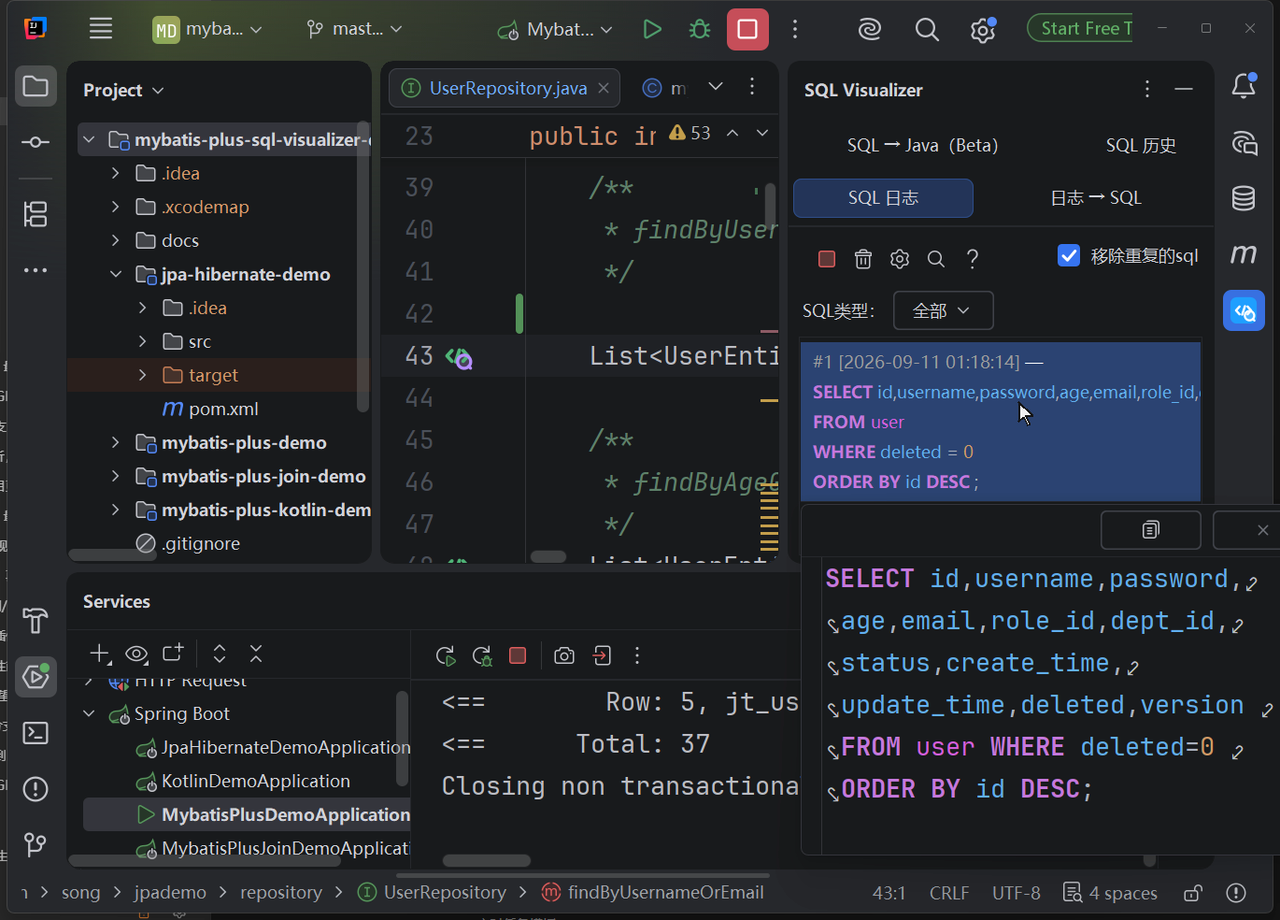
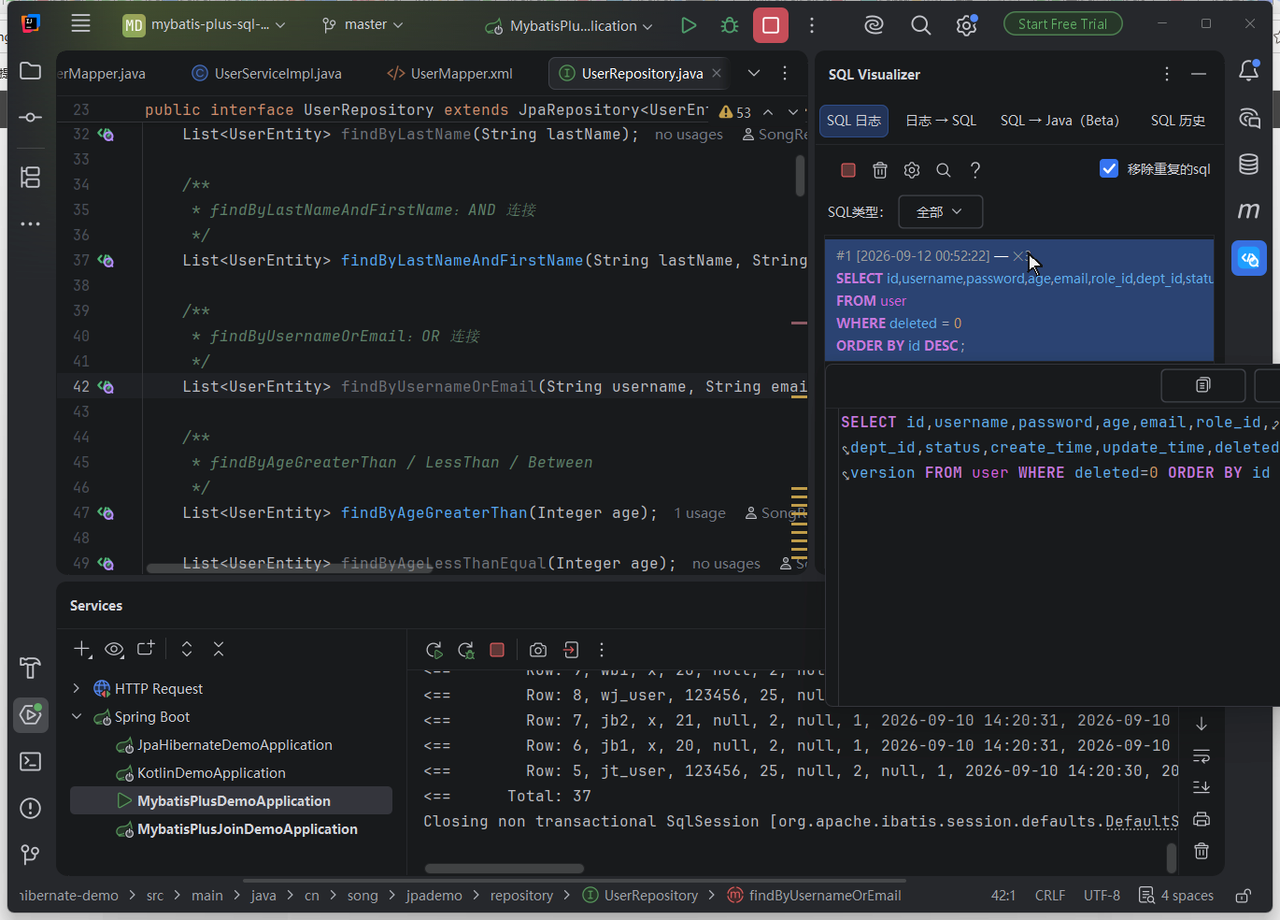
feat(demo): 修订九构图全量重录落地——7/8 重录+T6 保留+构建实测通过（本地待确认部署）
- 7 张 GIF+poster 按新构图重录替换：1370×984 窗口@120% 缩放+编辑器 13pt+目录树关闭+Islands Dark
- 逐张：annotation 0.9MB/wrapper 1.6MB(1440宽)/batch 1.0MB/xml 1.0MB/completion 0.3MB/jpa 2.6MB/sql-log 0.8MB，均 15fps
- T6 sql-to-java 输入编辑器回归未修，继续保留旧成品
- 实施状态更新：逐张规格/接缝/管线修复（assemble 残留帧等）与站点实测结论
- npm run build 通过；puppeteer 实测 7 处投放位动图播放与 poster 兜底结构正常

diff --git a/docs/开发计划/20260907-1138-文档站演示图GIF化补齐与替换-开发计划.md b/docs/开发计划/20260907-1138-文档站演示图GIF化补齐与替换-开发计划.md
@@ -5,7 +5,7 @@ search: false
 # 文档站演示图 GIF 化补齐与替换开发计划
 
 - 立项时间：2026-09-07 11:38（2026-09-11 修订九：用户判定 120% 缩放下字号仍偏大，全部录制作废按新构图重录——**构图基线：窗口 1370×984 @ (277,25) 浮动窗（全屏方案已否决）、IDE UI 缩放 120%（ideScale=1.2）、编辑器字体 13pt（对齐 JetBrains 官方视频密度）、项目目录树关闭（**录制前必查项，见 2.4**）、录制区域=窗口外框 (277,25,1370,984)**；录制环境用独立工作区 F:\code\Java\Gitee\SongRenShuo\mpsv-gif-fresh（detached @ c2d37bf，已配 2026.2.1+jcef+toolchain24+独立沙盒 MPSV-GifFresh，config 已带新构图设置，record/ 脚本为最新版），重执行时直接在该工作区 runIde【**修订十作废**：该 worktree 已移除，改用插件仓库 dev 的 `-PgifRecord` 开关，见 2.3】；旧 150% 构图的 6 张成品作废，T3 已有新构图初版。2026-09-07 修订一：录制工具改用 Recordly；新增「每个 GIF 必须配同名静态兜底图」硬性要求与 GifPlayer 兜底改造任务。修订二：新增清晰度基准——按站点实际显示宽度定录制/导出规格，IDEA UI 缩放 150% + 编辑器 18pt + 紧致构图三件套。修订三：吸收 JetBrains 官方 whatsnew 演示视频调研结论，见 2.7——构图/节奏印证三件套方向，wrapper-preview 因首页共用升 1440 导出。修订四：录制与截图环境锁定插件仓库 2026.2 runIde 沙盒（切换步骤见插件仓库《03-开发与测试指南》2.1），主题改为官网演示示例同款（沙盒默认主题），弃用「亮色主题」表述。修订五：官方演示风格由 2.7 调研结论升格为显式风格基准——2.4 加基准引言，验收标准第 2 条挂钩 2.7，实施与验收均以「对齐官方风格」为准绳。2026-09-09 修订六：①主题基准修正——IDEA 官方演示同款为暗色主题，明确录制时手动选用 IDE 暗色主题，此前按浅色理解录制的 4 张（annotation/jpa/batch/code-completion）作废待重录；②录制范围硬性限定为 IDE 窗口画面本身，严禁带入屏幕底部 Windows 任务栏与任何桌面元素；③沙盒激活尝试主 IDE 激活信息复制方案（idea.key 复制/Activation code 粘贴均实测无效，见 2.3），沙盒以免费评估/非商业授权模式运行即可满足录制。2026-09-09 修订七：④首轮成品 10fps 全部卡顿，根因两轮丢帧叠加（Recordly 3× 提速丢 2/3 + ffmpeg fps=10 再抽）+ 光标平滑未生效——修订为 GIF 帧率固定 15fps、提速降到 1.5~2×、关闭 auto-zoom 改固定构图、录制时操作排紧凑尽量单段不拼接，体积放开到 4~6MB 优先保证流畅。2026-09-10 修订八：首轮成品录制方式与节奏正确，但存在「弹窗 UI 重叠」与「SQL 高亮标红」两类画面问题（见实施状态），决定全部重新录制，录制前先修复沙盒样式缺陷与数据源配置；同时新增 T9c 弱网「先 poster → GIF 淡入覆盖」加载体验优化）。2026-09-11 修订十：**录制环境切换方式改为插件仓库内置开关**——插件仓库 dev 分支已把录制四项配置（262 平台 / JCEF / `jvmToolchain(24)` / 独立沙盒 `MPSV-GifFresh`）收敛为 Gradle 属性开关（插件仓库提交 f73df8c，另含误开闸门），录制改为 `./gradlew runIde -PgifRecord=true`，**不再需要临时改 `build.gradle.kts`、也不再需要录完 `git checkout` 还原**；原 `mpsv-gif-fresh` 独立工作区方案随之作废（该 worktree 已移除），改用含该开关的 dev worktree 即可。**注意该开关目前只在插件仓库本地 dev 分支，尚未推送到 origin/dev，master 与 r2 分支均无**——详见 2.3 注意 2。§2.3 / T0b / §五 已同步更新
-- 实施状态：**2026-09-11 修订九：全部 8 张按新构图作废重录**（用户验收判定字号仍偏大，需对齐 JetBrains 官方视频密度；修订八首轮 7 张旧构图成品作废，T3 已有新构图初版可作基线；T6 仍被输入编辑器回归阻塞，修复后补录）。修订八本轮已完成的部分：T9a/T9c GifPlayer poster 常驻+0.6s 淡入、T9b 首页两组件同步、前置修复两项随 dev 提交（c2d37bf）、标红根因实证（数据源内省瞬态）。修订九之前的状态：修订八已完成落地（2026-09-11，本地提交待部署确认）。重录完成 7/8：T1/T2/T3/T4/T5/T7/T8 全部按修订七/八规范重录并逐帧验收（无 UI 重叠、无 SQL 标红、暗色 Islands Dark、1280 宽/wrapper 1440、15fps、单张 0.3~2.6MB 均低于预算）。**T6 保留上轮成品**：当前 dev 构建的 SQL→Java 输入编辑器存在新回归（组件不接收点击/键盘输入，疑似 T-Perf-07/T-M52 的 ReadAction 改造引入），新录不可行；上轮 T6 成品为工具窗场景、经逐帧复核本就无「弹窗重叠/SQL 标红」两类缺陷，画面干净，故按计划风险条款保留并留档回归。前置修复两项已随 dev 分支提交（c2d37bf）：①弹窗头部两行布局根治重叠；②预热临时文件失败优雅降级（不再炸弹窗）。SQL 标红根因实证为录制时数据源未完成内省的瞬态（当前会话全部正常色）。T9a/T9c GifPlayer 改为 poster 常驻底层 + GIF 就绪 0.6s 淡入（GIF 失败摘除叠层 poster 永久兜底）；T9b 首页 DocsShowcase/FeatureAlternate 同步该模式；16 个功能页 md 因文件同名零改动。本地 commit 未部署，待用户确认效果后再部署（原 2026-09-10 修订八：首轮成品录制方式与节奏正确，但用户验收发现两类画面问题——①插件在 2026.2 沙盒里存在样式缺陷导致弹窗 UI 重叠，②沙盒 demo 工程数据源未正确配置导致 SQL 高亮标红。二者均为「录制环境侧」问题而非录制方法问题，故决定**全部重新录制一遍**，录制前先修复沙盒内的样式与数据源配置。同时新增弱网加载体验优化：当前 GifPlayer 在弱网下会「先空白→等 GIF 加载也一并渲染 poster 的加载中空白」，需改为「先快速展示 poster 静态图 → GIF 加载成功后淡入覆盖」。本次修订只更新本计划，不开始录制）
+- 实施状态：**2026-09-12 修订九重录完成**：7/8 全部按新构图（1370×984 @ (277,25)、120%、13pt、树关、Islands Dark）重录并逐帧验收，已替换进 public/demo/，本地 commit 待用户确认后部署。逐张：T7 annotation 0.9MB/9.7s/接缝0.00；T4 wrapper 1.6MB/7.7s/1440宽/接缝0.03；T2 batch 1.0MB/6.9s/接缝0.01；T8 xml 1.0MB/7.1s/接缝0.03；T3 completion 0.3MB/7.2s/接缝0.05（poster 取补全弹窗展开帧，并证实 09-11 08:16 的「新构图初版」实为打错文件的废 take——120%+18pt 且 "join us" 打进 UserRepository）；T1 jpa 2.6MB/14.5s/接缝0.31；T5 sql-log 0.8MB/9.4s（接缝3.62为本场景"空列表→有捕获"结构性跳变，与旧版一致可接受；录制流程改为先运行应用再点捕捉——先捕捉后启动时控制台不存在、监听不生效列表恒空）。T6 sql-to-java 输入编辑器回归仍未修复，按风险条款继续保留旧成品。T0a 双验证通过：数据源连接正常（SQL 高亮全程无标红）、各弹窗布局无重叠。管线侧修复与重标定已随 dev 提交（b12ddff）：assemble 残留帧混入 bug（decode 前清 frames 目录，T4 实证 132=119新+13旧）、gutter 检测条带/弹窗控件坐标全量重标、IME 须英文态（微软拼音中文态组合输入候选框入镜，T7 首版实证）、运行时改 Zoom 的 AWT 最小高度钳制等十项沉淀入录制经验总结 §十。站点验证：npm run build 通过；puppeteer 实测 7 处投放位（中英功能页+首页两组件）GIF 全部加载且动画播放、GifPlayer poster 常驻+GIF 淡入结构正常、功能页列宽 686px 下 1280/1440 宽源清晰度达标。2026-09-11 修订九之前的状态：修订八已完成落地（2026-09-11，本地提交待部署确认）。重录完成 7/8：T1/T2/T3/T4/T5/T7/T8 全部按修订七/八规范重录并逐帧验收（无 UI 重叠、无 SQL 标红、暗色 Islands Dark、1280 宽/wrapper 1440、15fps、单张 0.3~2.6MB 均低于预算）。**T6 保留上轮成品**：当前 dev 构建的 SQL→Java 输入编辑器存在新回归（组件不接收点击/键盘输入，疑似 T-Perf-07/T-M52 的 ReadAction 改造引入），新录不可行；上轮 T6 成品为工具窗场景、经逐帧复核本就无「弹窗重叠/SQL 标红」两类缺陷，画面干净，故按计划风险条款保留并留档回归。前置修复两项已随 dev 分支提交（c2d37bf）：①弹窗头部两行布局根治重叠；②预热临时文件失败优雅降级（不再炸弹窗）。SQL 标红根因实证为录制时数据源未完成内省的瞬态（当前会话全部正常色）。T9a/T9c GifPlayer 改为 poster 常驻底层 + GIF 就绪 0.6s 淡入（GIF 失败摘除叠层 poster 永久兜底）；T9b 首页 DocsShowcase/FeatureAlternate 同步该模式；16 个功能页 md 因文件同名零改动。本地 commit 未部署，待用户确认效果后再部署（原 2026-09-10 修订八：首轮成品录制方式与节奏正确，但用户验收发现两类画面问题——①插件在 2026.2 沙盒里存在样式缺陷导致弹窗 UI 重叠，②沙盒 demo 工程数据源未正确配置导致 SQL 高亮标红。二者均为「录制环境侧」问题而非录制方法问题，故决定**全部重新录制一遍**，录制前先修复沙盒内的样式与数据源配置。同时新增弱网加载体验优化：当前 GifPlayer 在弱网下会「先空白→等 GIF 加载也一并渲染 poster 的加载中空白」，需改为「先快速展示 poster 静态图 → GIF 加载成功后淡入覆盖」。本次修订只更新本计划，不开始录制）
 - 站点：https://sql-visualizer.jvtools.cn（Cloudflare Pages + VitePress）
 - 站点：https://sql-visualizer.jvtools.cn（Cloudflare Pages + VitePress）
 - 目标：清点文档站全部演示图，占位 SVG 补齐为真实 GIF 录屏，暗色静态截图替换为官方同款主题 GIF 录屏，孤儿资源一并清理。所有 GIF 用 Recordly 在插件仓库 2026.2 runIde 沙盒里模拟真实用户操作录制（截图同样在该沙盒里做），主题用官方演示同款暗色（2026-09-09 修订六），每个 GIF 配一张关键内容静态兜底图。
